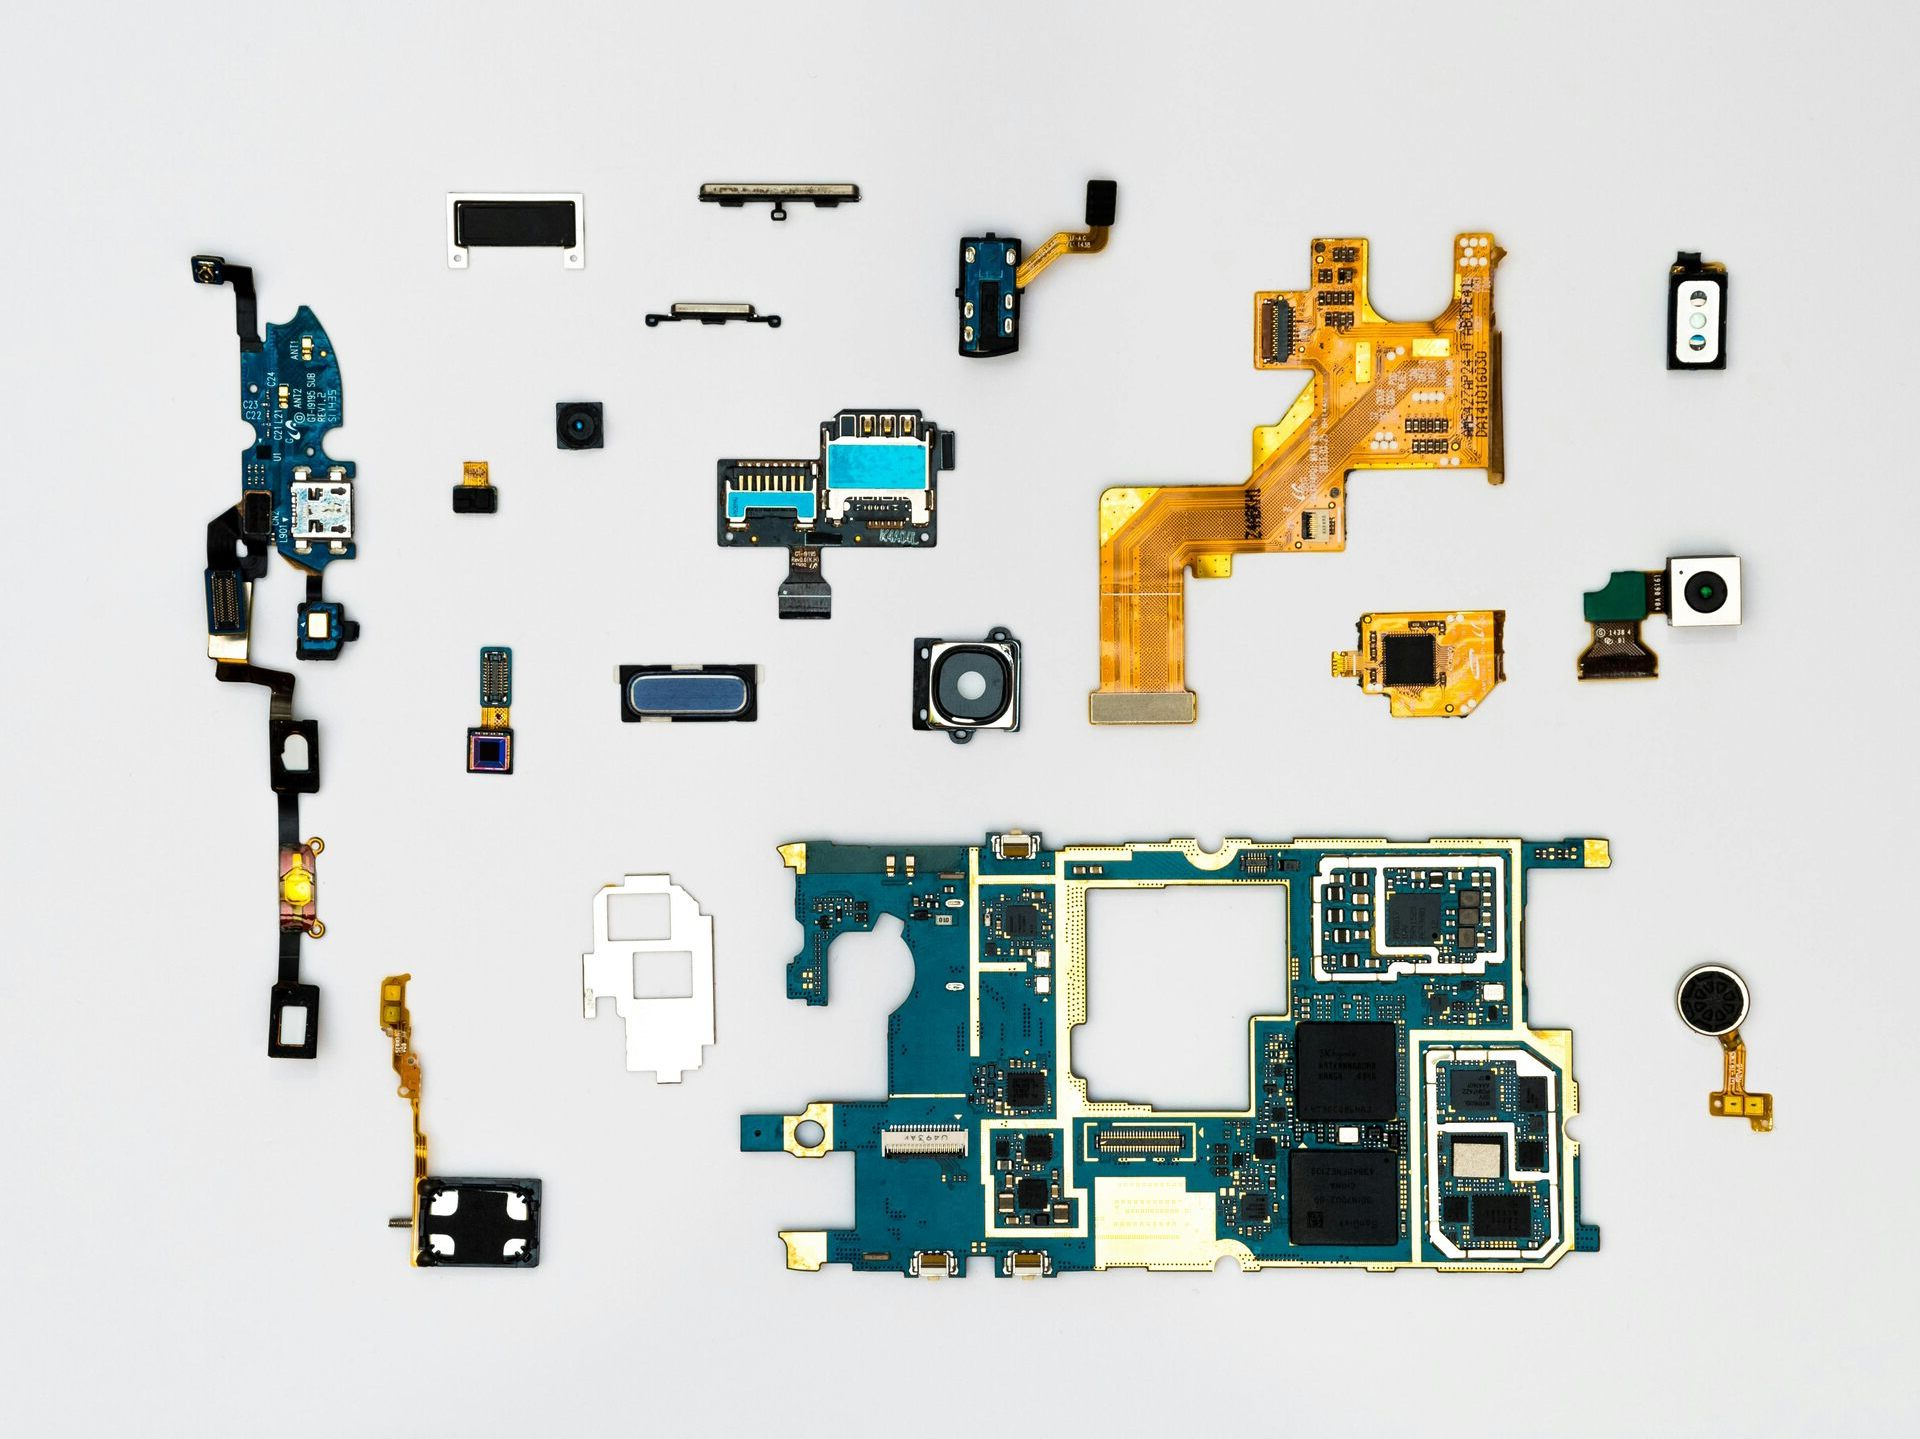
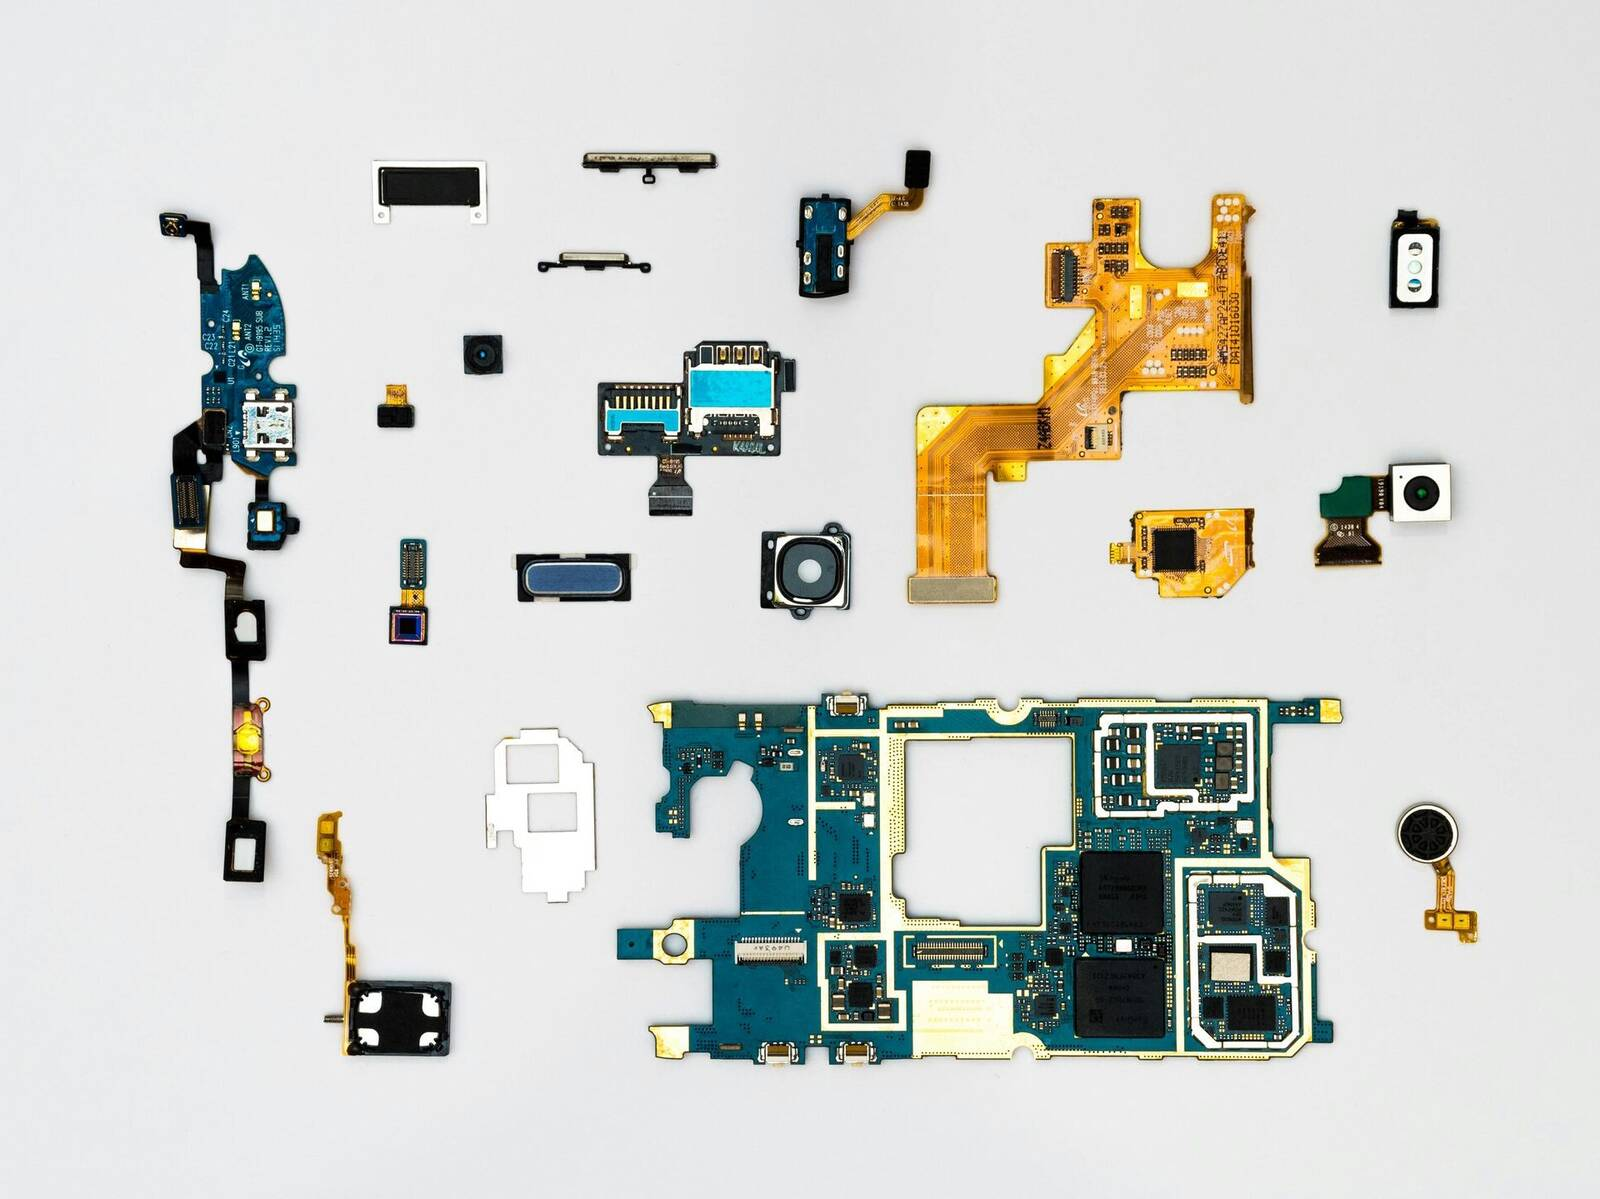
perf(app): confine the teardown photo to auth and empty states, trim the common chunk
- content screens paint the paper token; the photo backs only auth routes and empty states
- empty-search state shows the Relab wordmark instead of the lone mark
- Icon deep-imports lucide glyphs instead of the barrel (common chunk 4.3 MB -> 2.5 MB decoded)
- background JPEGs re-encoded at 1600px (740 KB -> 420 KB), promoted through assets/

diff --git a/app/src/components/base/Icon.tsx b/app/src/components/base/Icon.tsx
@@ -1,57 +1,56 @@
-import {
-  ArrowDownUp,
-  ArrowLeft,
-  Calendar,
-  Camera,
-  CameraOff,
-  Check,
-  ChevronDown,
-  ChevronLeft,
-  ChevronRight,
-  CircleAlert,
-  CircleCheckBig,
-  CircleUserRound,
-  Clock,
-  Copy,
-  EthernetPort,
-  ExternalLink,
-  Eye,
-  EyeOff,
-  Globe,
-  Image,
-  ImagePlus,
-  Images,
-  Info,
-  Link,
-  Lock,
-  type LucideIcon,
-  MailCheck,
-  Minus,
-  Moon,
-  Package,
-  PackageX,
-  Pencil,
-  Plus,
-  Radio,
-  RadioTower,
-  RefreshCw,
-  Save,
-  Search,
-  Settings,
-  Shapes,
-  SlidersHorizontal,
-  Sun,
-  SunMoon,
-  Tag,
-  Trash2,
-  User,
-  Users,
-  UserX,
-  VideoOff,
-  Webcam,
-  Weight,
-  X,
-} from 'lucide-react-native';
+import type { LucideIcon } from 'lucide-react-native';
+// Per-icon deep imports: the package barrel drags all ~1800 glyphs (1.3 MB) into the web bundle.
+import ArrowDownUp from 'lucide-react-native/icons/arrow-down-up';
+import ArrowLeft from 'lucide-react-native/icons/arrow-left';
+import Calendar from 'lucide-react-native/icons/calendar';
+import Camera from 'lucide-react-native/icons/camera';
+import CameraOff from 'lucide-react-native/icons/camera-off';
+import Check from 'lucide-react-native/icons/check';
+import ChevronDown from 'lucide-react-native/icons/chevron-down';
+import ChevronLeft from 'lucide-react-native/icons/chevron-left';
+import ChevronRight from 'lucide-react-native/icons/chevron-right';
+import CircleAlert from 'lucide-react-native/icons/circle-alert';
+import CircleCheckBig from 'lucide-react-native/icons/circle-check-big';
+import CircleUserRound from 'lucide-react-native/icons/circle-user-round';
+import Clock from 'lucide-react-native/icons/clock';
+import Copy from 'lucide-react-native/icons/copy';
+import EthernetPort from 'lucide-react-native/icons/ethernet-port';
+import ExternalLink from 'lucide-react-native/icons/external-link';
+import Eye from 'lucide-react-native/icons/eye';
+import EyeOff from 'lucide-react-native/icons/eye-off';
+import Globe from 'lucide-react-native/icons/globe';
+import Image from 'lucide-react-native/icons/image';
+import ImagePlus from 'lucide-react-native/icons/image-plus';
+import Images from 'lucide-react-native/icons/images';
+import Info from 'lucide-react-native/icons/info';
+import Link from 'lucide-react-native/icons/link';
+import Lock from 'lucide-react-native/icons/lock';
+import MailCheck from 'lucide-react-native/icons/mail-check';
+import Minus from 'lucide-react-native/icons/minus';
+import Moon from 'lucide-react-native/icons/moon';
+import Package from 'lucide-react-native/icons/package';
+import PackageX from 'lucide-react-native/icons/package-x';
+import Pencil from 'lucide-react-native/icons/pencil';
+import Plus from 'lucide-react-native/icons/plus';
+import Radio from 'lucide-react-native/icons/radio';
+import RadioTower from 'lucide-react-native/icons/radio-tower';
+import RefreshCw from 'lucide-react-native/icons/refresh-cw';
+import Save from 'lucide-react-native/icons/save';
+import Search from 'lucide-react-native/icons/search';
+import Settings from 'lucide-react-native/icons/settings';
+import Shapes from 'lucide-react-native/icons/shapes';
+import SlidersHorizontal from 'lucide-react-native/icons/sliders-horizontal';
+import Sun from 'lucide-react-native/icons/sun';
+import SunMoon from 'lucide-react-native/icons/sun-moon';
+import Tag from 'lucide-react-native/icons/tag';
+import Trash2 from 'lucide-react-native/icons/trash-2';
+import User from 'lucide-react-native/icons/user';
+import UserX from 'lucide-react-native/icons/user-x';
+import Users from 'lucide-react-native/icons/users';
+import VideoOff from 'lucide-react-native/icons/video-off';
+import Webcam from 'lucide-react-native/icons/webcam';
+import Weight from 'lucide-react-native/icons/weight';
+import X from 'lucide-react-native/icons/x';
 import { Path, Svg } from 'react-native-svg';
 
 type BrandGlyphProps = { size?: number; color?: string; strokeWidth?: number };

diff --git a/app/src/components/product/products-screen/ListContent.tsx b/app/src/components/product/products-screen/ListContent.tsx
@@ -14,6 +14,7 @@ import Animated, { FadeIn, ReduceMotion } from 'react-native-reanimated';
 import { AppButton } from '@/components/base/AppButton';
 import { AppText } from '@/components/base/AppText';
 import { Card } from '@/components/base/Card';
+import { StaticBackground } from '@/components/base/StaticBackground';
 import { BOTTOM_NAV_CLEARANCE, useBottomNavVisible } from '@/components/base/useBottomNav';
 import ProductCard from '@/components/product/ProductCard';
 import ProductCardSkeleton from '@/components/product/ProductCardSkeleton';
@@ -184,20 +185,23 @@ export function ProductsListContent({
         renderItem={renderProduct}
         onEndReached={handleEndReached}
         onEndReachedThreshold={0.5}
-        contentContainerStyle={{ paddingBottom: listBottomInset }}
+        contentContainerStyle={{ paddingBottom: listBottomInset, flexGrow: 1 }}
         ListFooterComponent={listFooter}
         ListEmptyComponent={
-          <View className="items-center p-5">
-            <Image
-              source={
-                theme.dark
-                  ? require('@/assets/images/mark-dark.png')
-                  : require('@/assets/images/mark.png')
-              }
-              style={styles.emptyStateMark}
-              contentFit="contain"
-              accessibilityLabel=""
-            />
+          <View className="flex-1 items-center justify-center p-5" testID="products-empty-state">
+            <StaticBackground scrim={theme.tokens.overlay.hero} />
+            {/* Decorative: expo-image drops an empty alt, so hide the subtree. */}
+            <View aria-hidden>
+              <Image
+                source={
+                  theme.dark
+                    ? require('@/assets/images/wordmark-dark.png')
+                    : require('@/assets/images/wordmark.png')
+                }
+                style={styles.emptyStateMark}
+                contentFit="contain"
+              />
+            </View>
             {searchQuery ? (
               <AppText>No products match your search.</AppText>
             ) : !isAuthenticated ? (

diff --git a/app/src/utils/router/__tests__/background.test.ts b/app/src/utils/router/__tests__/background.test.ts
@@ -21,6 +21,7 @@ describe('useBackgroundOverlay', () => {
     expect(await overlayFor(pathname)).toEqual({
       color: overlay.heroBand,
       edgeColor: overlay.heroEdge,
+      photo: true,
     });
   });
 
@@ -29,16 +30,29 @@ describe('useBackgroundOverlay', () => {
   it.each(['/onboarding', '/forgot-password', '/reset-password', '/mfa', '/verify'])(
     'uses the flat hero scrim on %s',
     async (pathname) => {
-      expect(await overlayFor(pathname)).toEqual({ color: overlay.hero, edgeColor: null });
+      expect(await overlayFor(pathname)).toEqual({
+        color: overlay.hero,
+        edgeColor: null,
+        photo: true,
+      });
     },
   );
 
-  // edgeColor null is what tells AppBackground to paint a flat fill rather than
-  // a gradient, so it is part of the contract, not an incidental value.
-  it.each(['/products', '/cameras', '/account'])(
-    'uses the flat near-opaque page overlay on %s',
+  // Content screens get the plain theme background and no photo: `photo: false`
+  // is what keeps StaticBackground unmounted, so it is part of the contract.
+  it.each(['/products', '/cameras', '/account', '/products/1'])(
+    'uses the plain theme background with no photo on %s',
     async (pathname) => {
-      expect(await overlayFor(pathname)).toEqual({ color: overlay.page, edgeColor: null });
+      expect(await overlayFor(pathname)).toEqual({
+        color: getAppTheme('light').colors.background,
+        edgeColor: null,
+        photo: false,
+      });
+      expect(await overlayFor(pathname, true)).toEqual({
+        color: getAppTheme('dark').colors.background,
+        edgeColor: null,
+        photo: false,
+      });
     },
   );
 
@@ -47,6 +61,7 @@ describe('useBackgroundOverlay', () => {
     expect(await overlayFor('/login', true)).toEqual({
       color: dark.heroBand,
       edgeColor: dark.heroEdge,
+      photo: true,
     });
   });
 

diff --git a/app/src/components/cameras/screen/Grid.tsx b/app/src/components/cameras/screen/Grid.tsx
@@ -9,6 +9,7 @@ import {
 import { AppText } from '@/components/base/AppText';
 import { Icon } from '@/components/base/Icon';
 import { MutedText } from '@/components/base/MutedText';
+import { StaticBackground } from '@/components/base/StaticBackground';
 import { CameraCard } from '@/components/cameras/CameraCard';
 import {
   type EffectiveConnectionSnapshot,
@@ -81,7 +82,8 @@ export function CamerasGrid({
         ) : null
       }
       ListEmptyComponent={
-        <View className="flex-1 items-center justify-center p-8">
+        <View className="flex-1 items-center justify-center p-8" testID="cameras-empty-state">
+          <StaticBackground scrim={theme.tokens.overlay.hero} />
           <View className="opacity-40">
             <Icon name="camera-off" size={64} color={theme.colors.onSurfaceVariant} />
           </View>
@@ -152,6 +154,8 @@ const CameraGridCell = memo(function CameraGridCell({
         onPress={handlePress}
         onLongPress={handleLongPress}
         delayLongPress={350}
+        // The name comes from CameraCard's own label inside.
+        accessibilityRole="button"
         style={cellStyle}
       >
         <CameraCard camera={camera} effectiveConnection={effectiveConnection} />

diff --git a/app/src/utils/router/background.ts b/app/src/utils/router/background.ts
@@ -17,17 +17,20 @@ export type BackgroundOverlay = {
   color: string;
   /** Edge colour of the band routes' horizontal gradient; `null` means a flat fill. */
   edgeColor: string | null;
+  /** Whether the teardown photo is mounted under the fill (auth routes only). */
+  photo: boolean;
 };
 
-/** The scrim drawn over the static background image for the current route. */
+/** The route's backdrop: photo + scrim on auth routes, the plain theme background elsewhere. */
 export function useBackgroundOverlay(isDark: boolean): BackgroundOverlay {
   const pathname = usePathname();
-  const { overlay } = getAppTheme(isDark ? 'dark' : 'light').tokens;
+  const { colors, tokens } = getAppTheme(isDark ? 'dark' : 'light');
+  const { overlay } = tokens;
   if (isBandPath(pathname)) {
-    return { color: overlay.heroBand, edgeColor: overlay.heroEdge };
+    return { color: overlay.heroBand, edgeColor: overlay.heroEdge, photo: true };
   }
   if (isHeroPath(pathname)) {
-    return { color: overlay.hero, edgeColor: null };
+    return { color: overlay.hero, edgeColor: null, photo: true };
   }
-  return { color: overlay.page, edgeColor: null };
+  return { color: colors.background, edgeColor: null, photo: false };
 }

diff --git a/app/src/app/__tests__/layout-helpers.test.tsx b/app/src/app/__tests__/layout-helpers.test.tsx
@@ -81,19 +81,23 @@ describe('layout helpers rendering', () => {
   // Reads the values from the tokens rather than restating them: hardcoded
   // rgba literals here just break whenever the scrim is retuned.
   it('returns the overlay for normal and auth routes', async () => {
-    const light = getAppTheme('light').tokens.overlay;
+    const light = getAppTheme('light');
     const dark = getAppTheme('dark').tokens.overlay;
     const { result, rerender } = await renderHook<BackgroundOverlay, { isDark: boolean }>(
       ({ isDark }) => useBackgroundOverlay(isDark),
       { initialProps: { isDark: false } },
     );
 
-    expect(result.current).toEqual({ color: light.page, edgeColor: null });
+    expect(result.current).toEqual({
+      color: light.colors.background,
+      edgeColor: null,
+      photo: false,
+    });
 
     mockUsePathname.mockReturnValue('/login');
     await rerender({ isDark: true });
 
     // /login is a band route: gradient, not the flat hero scrim.
-    expect(result.current).toEqual({ color: dark.heroBand, edgeColor: dark.heroEdge });
+    expect(result.current).toEqual({ color: dark.heroBand, edgeColor: dark.heroEdge, photo: true });
   });
 });

diff --git a/app/src/app/_layout.tsx b/app/src/app/_layout.tsx
@@ -39,7 +39,8 @@ import { AppThemeProvider } from '@/theme/AppThemeProvider';
 import { type BackgroundOverlay, useBackgroundOverlay } from '@/utils/router/background';
 import { getUsernameOnboardingRedirect } from '@/utils/router/onboarding';
 
-// Every navigator here paints its scene transparent so StaticBackground shows through.
+// Every navigator here paints its scene transparent so AppBackground shows through
+// (the flat theme background on content screens, the photo + scrim on auth routes).
 // Bottom tabs only push an inactive tab behind the active one (z-index), counting on an
 // opaque scene to cover it; on web react-native-screens is off by default, so a
 // transparent scene showed the previous tab underneath. Enabling it on web swaps in the
@@ -86,7 +87,7 @@ export default function RootLayout() {
 function AppBackground({ overlay }: { overlay: BackgroundOverlay }) {
   return (
     <>
-      <StaticBackground />
+      {overlay.photo ? <StaticBackground /> : null}
       {overlay.edgeColor ? (
         // Hero routes: calm the band behind the content column, vivid at the edges.
         <LinearGradient

diff --git a/app/src/components/product/products-screen/__tests__/ListContent.test.tsx b/app/src/components/product/products-screen/__tests__/ListContent.test.tsx
@@ -206,3 +206,22 @@ describe('ProductsListContent chrome', () => {
     );
   });
 });
+
+describe('ProductsListContent empty state', () => {
+  it('shows the Relab wordmark over the teardown photo when the list is empty', async () => {
+    await renderList({ products: [], total: 0 });
+
+    expect(screen.getByTestId('products-empty-state')).toBeOnTheScreen();
+    // The photo is decorative (aria-hidden), so opt into hidden elements.
+    expect(screen.getByTestId('expo-image-bg', { includeHiddenElements: true })).toBeOnTheScreen();
+    // Jest maps every image asset to `1`, so assert the wordmark footprint
+    // (wide, not the old square "9" mark) rather than the source path.
+    const wordmark = screen.getByTestId('expo-image', { includeHiddenElements: true });
+    expect(wordmark.props.style.width).toBeGreaterThan(wordmark.props.style.height * 2);
+  });
+
+  it('does not mount the teardown photo behind a populated list', async () => {
+    await renderList();
+    expect(screen.queryByTestId('expo-image-bg', { includeHiddenElements: true })).toBeNull();
+  });
+});

diff --git a/app/src/components/base/StaticBackground.tsx b/app/src/components/base/StaticBackground.tsx
@@ -2,7 +2,9 @@ import { ImageBackground } from 'expo-image';
 import { StyleSheet, View } from 'react-native';
 import { useEffectiveColorScheme } from '@/context/themeMode';
 
-export function StaticBackground() {
+// Decorative teardown photo. Only the auth group and empty states mount it;
+// content screens sit on the plain theme background.
+export function StaticBackground({ scrim }: { scrim?: string } = {}) {
   const colorScheme = useEffectiveColorScheme();
 
   const image =
@@ -14,6 +16,7 @@ export function StaticBackground() {
   return (
     <View style={StyleSheet.absoluteFill} aria-hidden pointerEvents="none">
       <ImageBackground source={image} style={StyleSheet.absoluteFill} />
+      {scrim ? <View style={[StyleSheet.absoluteFill, { backgroundColor: scrim }]} /> : null}
     </View>
   );
 }

diff --git a/app/src/components/base/__tests__/StaticBackground.test.tsx b/app/src/components/base/__tests__/StaticBackground.test.tsx
@@ -19,4 +19,14 @@ describe('StaticBackground', () => {
     await render(<StaticBackground />);
     expect(screen.getByTestId('expo-image-bg', { includeHiddenElements: true })).toBeOnTheScreen();
   });
+
+  it('paints the scrim over the photo when one is given', async () => {
+    const { toJSON } = await render(<StaticBackground scrim="rgba(1,2,3,0.5)" />);
+    expect(JSON.stringify(toJSON())).toContain('rgba(1,2,3,0.5)');
+  });
+
+  it('paints no scrim by default', async () => {
+    const { toJSON } = await render(<StaticBackground />);
+    expect(JSON.stringify(toJSON())).not.toContain('backgroundColor');
+  });
 });

diff --git a/app/src/app/(tabs)/_layout.tsx b/app/src/app/(tabs)/_layout.tsx
@@ -21,7 +21,8 @@ export default function TabsLayout() {
   return (
     <Tabs
       tabBar={renderTabBar}
-      // The themed scene would sit opaque over StaticBackground.
+      // The root AppBackground already paints the theme background (or the auth photo);
+      // an opaque themed scene here would only double it.
       screenOptions={{ headerShown: false, sceneStyle: { backgroundColor: 'transparent' } }}
     >
       <Tabs.Screen name="(products)" />

diff --git a/app/src/app/(tabs)/(products)/products/index.tsx b/app/src/app/(tabs)/(products)/products/index.tsx
@@ -24,7 +24,7 @@ const SORT_OPTIONS = PRODUCT_SORT_OPTIONS;
 
 export default function Products() {
   const colorScheme = useEffectiveColorScheme();
-  const bgOverlay = getAppTheme(colorScheme).tokens.overlay.page;
+  const bgOverlay = getAppTheme(colorScheme).colors.background;
   const { width } = useWindowDimensions();
   const numColumns = productGridColumns(width);
 
